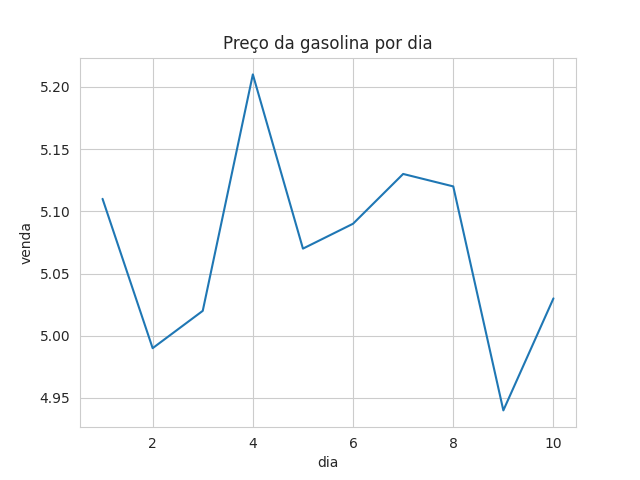
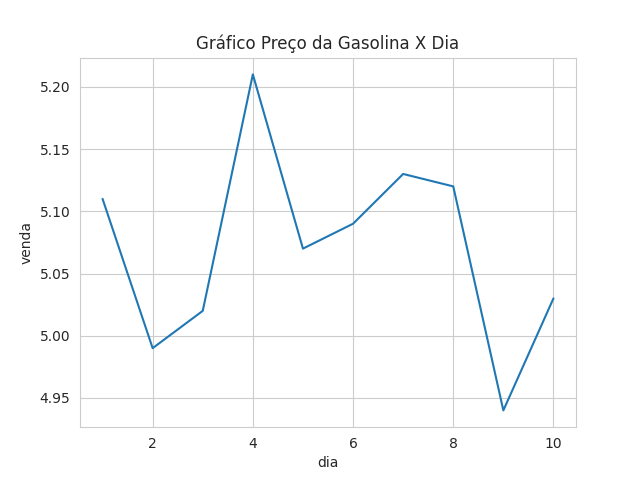
arquivo gasolina.py alterado em develop

Changed region(s): [[0.3125, 0.0625, 0.7188, 0.125]]

diff --git a/gasolina.py b/gasolina.py
@@ -9,5 +9,5 @@ gasolina_df = pd.read_csv('gasolina.csv', sep=',')
 
 with sns.axes_style('whitegrid'):
 
-  gráfico = sns.lineplot(data = gasolina_df, x='dia', y = 'venda', palette='dark')
-  gráfico.set(title='Preço da gasolina por dia')
+  gráfico = sns.lineplot(data = gasolina_df, x='dia', y = 'venda', palette='deep')
+  gráfico.set(title='Gráfico Preço da Gasolina X Dia')
